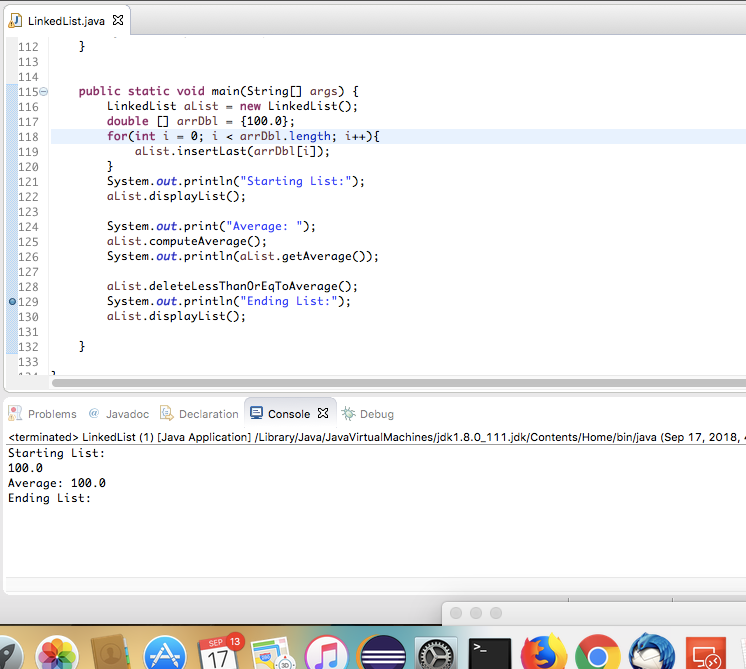
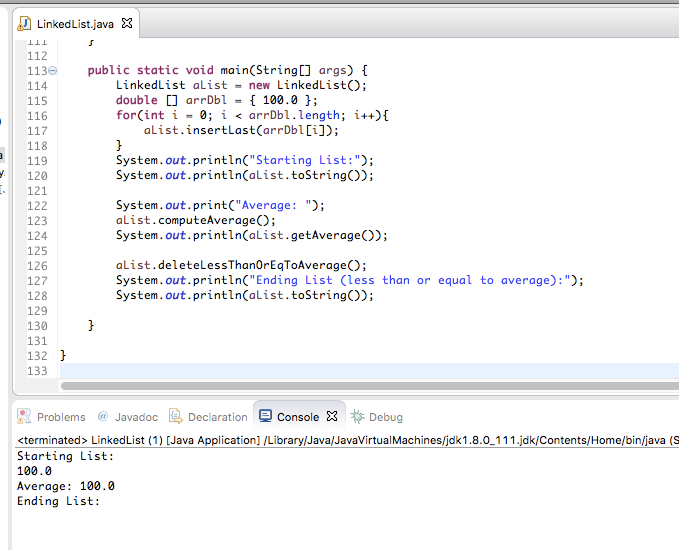
added toChange

Changed region(s): [[0.0, 0.0, 1.0, 1.0]]

diff --git a/hw0911/LinkedList.java b/hw0911/LinkedList.java
@@ -1,14 +1,14 @@
 /*
  * Aaron Stark
- * https://github.com/aaronsta/COSC311/tree/master/hw0911
- * COSC 311
  * hw0911
- * FALL 2018
+ * https://github.com/aaronsta/COSC311/tree/master/hw0911
+ * COSC 311, FALL 2018
  * 
+ * Citations:
  * deleteGreaterThanOrEqToAverage and deleteLessThanOrEqToAverage are based on 	https://stackoverflow.com/questions/36587186/delete-multiple-nodes-from-linked-list-java
 	under "specifically for this case you want to remove a node." in 	answer from Apr 13 '16 at 2:33
 * insertLast is  based on code from the GTG textbook, p. 127 
-*  displayList is based on code from the Lafore, Data Structures and Algorithms in Java textbook, p. 204
+*  toString() is based on Prof. Haynes code here https://emunix.emich.edu/~haynes/CommonCourseMaterial/311/LinkedListDelete/LinkedList.java
  */
 
 public class LinkedList {
@@ -102,32 +102,30 @@ public class LinkedList {
 		return this;
 	}
 
-	public void displayList(){
-		Link current = head;
-		while (current != null){ 
-			System.out.print(current.data + " ");
-			current = current.next;
-		}
-		System.out.println("");
-	}
-	
+	public String toString() {
+        String str = "";
+        for (Link p = head; p != null; p = p.next) {
+        	 str += p.data + " ";
+        }
+        return str;
+    }
 
 	public static void main(String[] args) {
 		LinkedList aList = new LinkedList();
-		double [] arrDbl = {100.0,  10.0,  15.0,  20.0,  200.0,  30.0,  40.0,  300.0};
+		double [] arrDbl = { 100.0,  10.0,  15.0,  20.0,  200.0,  30.0,  40.0,  300.0 };
 		for(int i = 0; i < arrDbl.length; i++){
 			aList.insertLast(arrDbl[i]);
 		}
 		System.out.println("Starting List:");
-		aList.displayList();
+		System.out.println(aList.toString());
 		
 		System.out.print("Average: ");
 		aList.computeAverage();
 		System.out.println(aList.getAverage());
 		
 		aList.deleteLessThanOrEqToAverage();
-		System.out.println("Ending List:");
-		aList.displayList();
+		System.out.println("Ending List (less than or equal to average):");
+		System.out.println(aList.toString());
 		
 	}
 
